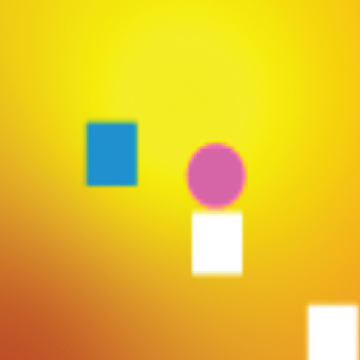
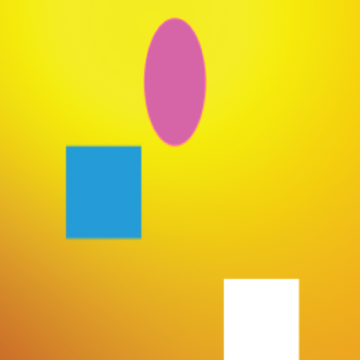
Add the content for geometric shape

diff --git a/geometric-shape.html b/geometric-shape.html
@@ -2,7 +2,7 @@
 layout: default
 title: Sunset · Geometric Shape · Yu-Han Chang's Portfolio
 highlight_nav: portfolio-works
-desc: Create a story made from geometric shape that synchronize with the music.
+desc: Using geometric shapes to synchronize with the music.
 url: http://changyh.ca/geometric-shape/
 ---
 <div class="grid">
@@ -19,25 +19,58 @@ url: http://changyh.ca/geometric-shape/
     <h2 aria-label="Type of the project" class="unit s-1 m-1 l-1 push-1-2 text-center mega">(Geometric Shape)</h2>
 
     <h2 tabindex="0" aria-label="Description of the project" class="unit s-1 m-1 l-1 push-1-2 peta">Description</h2>
-    <p class="unit s-1 m-1 l-1-2 push-1-2"></p>
+    <p class="unit s-1 m-1 l-1-2 push-1-2">Using geometric shapes to synchronize with the music.</p>
 
     <h2 tabindex="0" aria-label="Challenges of the project" class="unit s-1 m-1 l-1 push-1-2 peta">Challenge(s)</h2>
-    <p class="unit s-1 m-1 l-1-2 push-1-2"></p>
+    <p class="unit s-1 m-1 l-1-2 push-1-2">Create a concept or story that can be synchronized with geometry shapes and music.</p>
 
     <h2 tabindex="0" aria-label="Solutions to the challenges that I stated above" class="unit s-1 m-1 l-1 push-1-2 peta">Solution(s)</h2>
-    <p class="unit s-1 m-1 l-1-2 push-1-2"></p>
+    <p class="unit s-1 m-1 l-1-2 push-1-2">The song that I picked has a similar beat throughout the whole song. Also, there are bird sounds in the background so we can possibly imagine in our mind that the scene is set early in the morning. Therefore, the colour theme that I decided to go with is mostly warm colours and light colours.</p>
 
     <h2 tabindex="0" aria-label="Learn the process of the project" class="unit s-1 m-1 l-1 push-1-2 peta">Steps to complete the project</h2>
-    <p class="unit s-1 m-1 l-1-2 push-1-2"></p>
-    <p class="unit s-1 m-1 l-1-2 push-1-2"></p>
-    <p class="unit s-1 m-1 l-1-2 push-1-2"></p>
+    <p class="unit s-1 m-1 l-1-2 push-1-2">The first thing to do is to pick a song to work with it. I trimmed down to 30 seconds with Premiere Pro.</p>
+    <p class="unit s-1 m-1 l-1-2 push-1-2">Then I created a storyboard.</p>
+    <div class="grid">
+      <div class="unit s-1 m-1 l-1-2 island-1-2">
+        <img class="img-flex" src="/images/animatic-storyboard-1.jpg" alt="Storyboard #1 for the Geometric Shape project">
+      </div>
+      <div class="unit s-1 m-1 l-1-2 island-1-2">
+        <img class="img-flex" src="/images/animatic-storyboard-2.jpg" alt="Storyboard #2 for the Geometric Shape project">
+      </div>
+      <div class="unit s-1 m-1 l-1-2 island-1-2">
+        <img class="img-flex" src="/images/animatic-storyboard-3.jpg" alt="Storyboard #3 for the Geometric Shape project">
+      </div>
+    </div>
+    <p class="unit s-1 m-1 l-1-2 push-1-2">Afterward, I created an animatic. An animatic is an animation storyboard. It is a series of images played in sequence. In addition, they usually have a soundtrack with it. I took a screenshot of every frame from the storyboard. I imported them on After Effects and use the marker to help myself to remember where are the beats.</p>
+    <p class="unit s-1 m-1 l-1-2 push-1-2">I created 4 style frames to help myself visualize the colours that I’m going with it. Also, I had to create those two different scenes on Adobe Illustrator so I wouldn’t need to create some shape layers on After Effects.</p>
+    <div class="grid">
+      <div class="unit s-1 m-1 l-1-2 island-1-2">
+        <img class="img-flex" src="/images/geometric-shape-style-frame-1.png" alt="Style frame #1 for the Geometric Shape project">
+      </div>
+      <div class="unit s-1 m-1 l-1-2 island-1-2">
+        <img class="img-flex" src="/images/geometric-shape-style-frame-2.png" alt="Style frame #2 for the Geometric Shape project">
+      </div>
+      <div class="unit s-1 m-1 l-1-2 island-1-2">
+        <img class="img-flex" src="/images/geometric-shape-style-frame-3.png" alt="Style frame #3 for the Geometric Shape project">
+      </div>
+      <div class="unit s-1 m-1 l-1-2 island-1-2">
+        <img class="img-flex" src="/images/geometric-shape-style-frame-4.png" alt="Style frame #4 for the Geometric Shape project">
+      </div>
+    </div>
+    <p class="unit s-1 m-1 l-1-2 push-1-2">After all that, I can finally start creating my video on After Effects. When I was almost done, I thought of not showing the full screen throughout the video. I want to make it feels like a mystery so I zoom in with the camera layer and null object.</p>
 
     <h2 tabindex="0" aria-label="Obstacles that I came upon when working on the project" class="unit s-1 m-1 l-1 push-1-2 peta">Problem(s) encountered</h2>
-    <p class="unit s-1 m-1 l-1-2 push-1-2"></p>
+    <p class="unit s-1 m-1 l-1-2 push-1-2">The first obstacle that I encountered is the motion path. I wasn’t too familiar with it. I lost the motion path and I didn’t know how to make it show up.</p>
+    <p class="unit s-1 m-1 l-1-2 push-1-2">The second obstacle is the background colour looks too plain. The background was originally a solid colour and my professor suggested to make it stand out more. He suggested using an effect called 4-Colour Gradient.</p>
 
     <h2 tabindex="0" aria-label="Learn how I solve my problems that I stated above" class="unit s-1 m-1 l-1 push-1-2 peta">How I solve it?</h2>
-    <p class="unit s-1 m-1 l-1-2 push-1-2"></p>
+    <p class="unit s-1 m-1 l-1-2 push-1-2">I did some researches and there are two ways of making the motion path appear.  The first solution is View → View Options → Check Motion Path. However, in my case, mine was already checked. So, the other way is still under View but you select the one after View Options. In which, it is Show Layer Controls.</p>
+    <p class="unit s-1 m-1 l-1-2 push-1-2">I agree with what the professor said so I tried to use 4-Colour Gradient. I played around so the gradient looks cohesive.</p>
+
     <h2 tabindex="0" aria-label="Watch the final version of the video" class="unit s-1 m-1 l-1 push-1-2 peta">Final Video</h2>
+    <div style="padding:56.25% 0 0 0;position:relative;">
+      <iframe src="https://player.vimeo.com/video/378439046" style="position:absolute;top:0;left:0;width:100%;height:100%;" frameborder="0" allow="autoplay; fullscreen" allowfullscreen></iframe>
+    </div>
 
   </main>
 </div>
@@ -53,7 +86,7 @@ url: http://changyh.ca/geometric-shape/
     },
     "url": "http://changyh.ca/geometric-shape",
     "dateCreated": "2019",
-    "description": "",
+    "description": "Using geometric shapes to synchronize with the music.",
     "keywords": ""
   }
 </script>

diff --git a/_patterns/banners/geometric-shape-banner.html b/_patterns/banners/geometric-shape-banner.html
@@ -1,3 +1,3 @@
 <div>
-  <img role="presentation" class="img-flex" src="/images/geometric-shape-web-banner.png" alt="A web banner for Geometric Shape project">
+  <img role="presentation" class="img-flex" src="/images/geometric-shape-banner.png" alt="A web banner for Geometric Shape project">
 </div>
